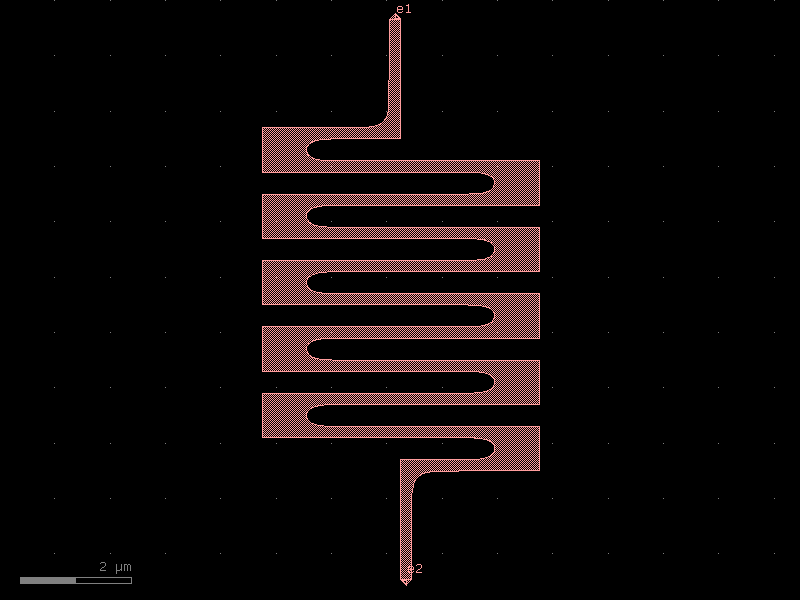
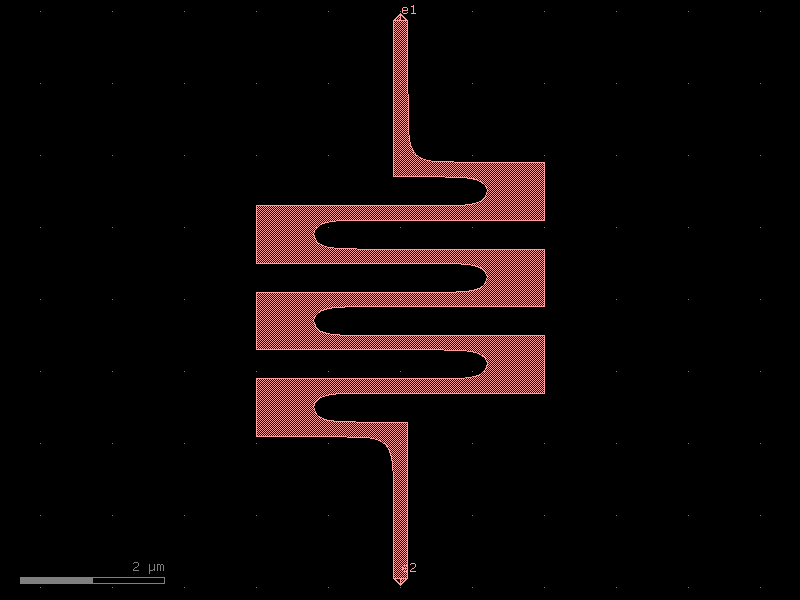
change snspd.vertical to use snspd.basic

Changed region(s): [[0.3125, 0.0, 0.6875, 0.99], [0.125, 0.93, 0.1562, 0.96], [0.0938, 0.96, 0.125, 0.99]]

diff --git a/src/qnngds/devices/snspd.py b/src/qnngds/devices/snspd.py
@@ -12,7 +12,7 @@ from typing import Tuple, Optional, Union
 def basic(
     wire_width: float = 0.2,
     wire_pitch: float = 0.6,
-    size: Tuple[Optional[Union[int, float]], Optional[Union[int, float]]] = (10, 10),
+    size: Tuple[Optional[Union[int, float]], Optional[Union[int, float]]] = (20, 20),
     num_squares: Optional[int] = None,
     turn_ratio: Union[int, float] = 4,
     extend_terminals: bool = True,
@@ -147,7 +147,7 @@ def basic(
 def vertical(
     wire_width: float = 0.2,
     wire_pitch: float = 0.6,
-    size: Tuple[Union[int, float], Union[int, float]] = (5, 5),
+    size: Tuple[Union[int, float], Union[int, float]] = (20, 20),
     num_squares: Optional[int] = None,
     extend: Optional[float] = 1,
     layer: tuple = (1, 0),
@@ -178,52 +178,40 @@ def vertical(
 
     D = gf.Component()
 
-    S = gf.components.superconductors.snspd(
+    S = basic(
         wire_width=wire_width,
         wire_pitch=wire_pitch,
         size=size,
         num_squares=num_squares,
+        extend_terminals=False,
         terminals_same_side=False,
         layer=layer,
         port_type="optical",
     )
     D << S
 
-    HP = gf.components.superconductors.optimal_hairpin(
-        width=wire_width, pitch=wire_pitch, length=S.xsize / 2, layer=layer
-    )
-    h1 = D << HP
-    h1.mirror()
-    h1.move(np.subtract(S.ports["e1"].center, h1.ports["e2"].center))
-    h1.movex(size[0] / 2)
-
-    h2 = D << HP
-    h2.move(np.subtract(S.ports["e2"].center, h2.ports["e1"].center))
-    h2.movex(-size[0] / 2)
-
     T = gf.components.superconductors.optimal_90deg(width=wire_width, layer=layer)
     t1 = D << T
-    t1.rotate(90)
-    t1.move(np.subtract(h1.ports["e1"].center, t1.ports["e1"].center))
-    t1.movex(-T.xsize)
+    t1.move(np.subtract(S.ports["e1"].center, t1.ports["e2"].center))
+    t1.movex(T.xsize - wire_width / 2)
 
     t2 = D << T
-    t2.rotate(270)
-    t2.move(np.subtract(h2.ports["e2"].center, t2.ports["e1"].center))
-    t2.movex(T.xsize)
+    t2.rotate(180)
+    t2.move(np.subtract(S.ports["e2"].center, t2.ports["e2"].center))
+    t2.movex(-T.xsize + wire_width / 2)
 
     ports = []
     if extend is not None:
         E = gf.components.compass(size=(extend, wire_width), layer=layer)
         e1 = D << E
-        e1.connect(e1.ports["e1"], t1.ports["e2"], allow_type_mismatch=True)
+        e1.connect(e1.ports["e1"], t1.ports["e1"], allow_type_mismatch=True)
         e2 = D << E
-        e2.connect(e2.ports["e1"], t2.ports["e2"], allow_type_mismatch=True)
+        e2.connect(e2.ports["e1"], t2.ports["e1"], allow_type_mismatch=True)
         ports.append(e1.ports["e3"])
         ports.append(e2.ports["e3"])
     else:
-        ports.append(t1.ports["e2"])
-        ports.append(t2.ports["e2"])
+        ports.append(t1.ports["e1"])
+        ports.append(t2.ports["e1"])
     Du = gf.Component()
     Du << qu.union(D)
     Du.flatten()
